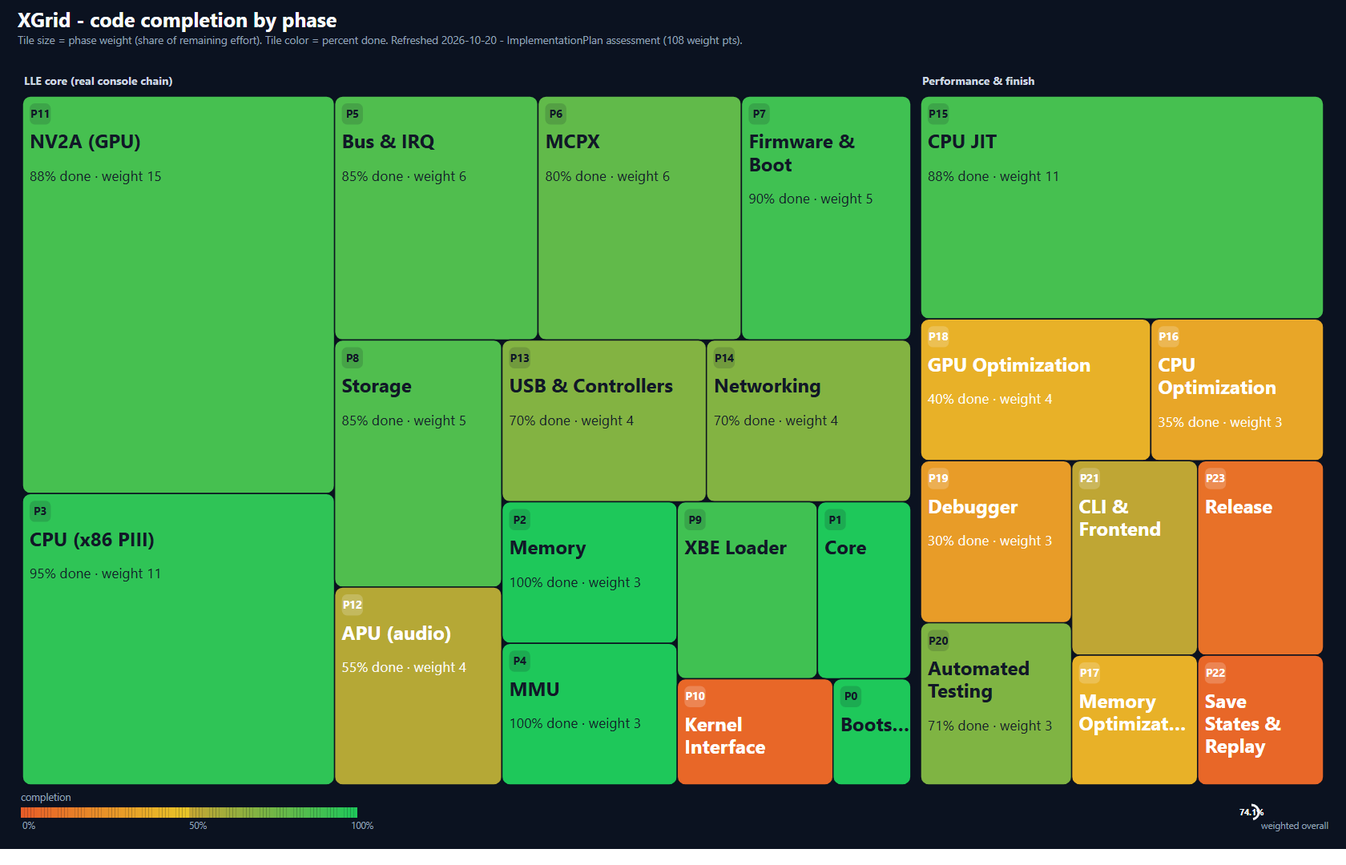
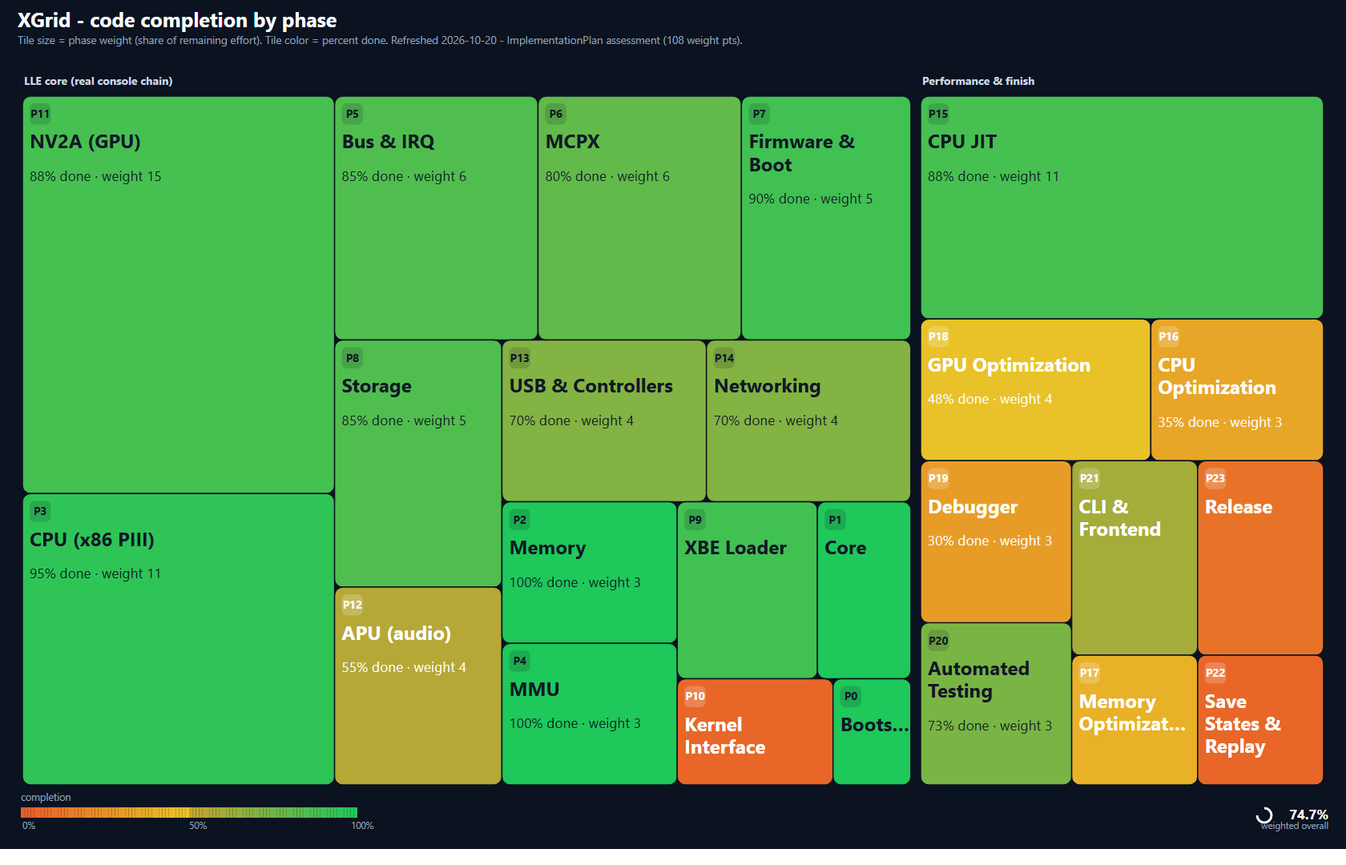
docs: fold 205 into the plan, matrix and completion graph  Documentation pass after the draw-command batching landing (8920c22, 48a12e1). No code changes.  ImplementationPlan: - assessment header/summary rows name 205; - Track B item 1 records the batching design and the same-binary A/B   (drawMs 19

Changed region(s): [[0.7738, 0.5194, 0.8976, 0.7639], [0.9286, 0.9167, 0.9905, 0.9472]]

diff --git a/tools/completion-graph/completion-treemap.html b/tools/completion-graph/completion-treemap.html
@@ -125,12 +125,12 @@
 <text x='1158' y='185.4' font-size='24' font-weight='700' fill='#111827'>CPU JIT</text>
 <text x='1158' y='226.1' font-size='17.3' opacity='0.94' fill='#111827'>88% done &#183; weight 11</text>
 </g>
-<g class='tile' data-p='18' data-name='GPU Optimization' data-done='40' data-weight='4'>
-<rect x='1149' y='398.2' width='287.4' height='177.1' rx='10' fill='#E8B128' stroke='#0B1220' stroke-width='1.5'/>
+<g class='tile' data-p='18' data-name='GPU Optimization' data-done='48' data-weight='4'>
+<rect x='1149' y='398.2' width='287.4' height='177.1' rx='10' fill='#E8C228' stroke='#0B1220' stroke-width='1.5'/>
 <rect x='1158' y='407.2' width='26.4' height='26.4' rx='6.6' fill='rgba(255,255,255,0.20)'/>
 <text x='1171.2' y='425.2' font-size='13.7' font-weight='700' fill='#FFFFFF' text-anchor='middle'>P18</text>
 <text x='1158' y='463.6' font-size='24' font-weight='700' fill='#FFFFFF'>GPU Optimization</text>
-<text x='1158' y='504.3' font-size='17.3' opacity='0.94' fill='#FFFFFF'>40% done &#183; weight 4</text>
+<text x='1158' y='504.3' font-size='17.3' opacity='0.94' fill='#FFFFFF'>48% done &#183; weight 4</text>
 </g>
 <g class='tile' data-p='16' data-name='CPU Optimization' data-done='35' data-weight='3'>
 <rect x='1436.4' y='398.2' width='215.6' height='177.1' rx='10' fill='#E8A628' stroke='#0B1220' stroke-width='1.5'/>
@@ -147,23 +147,23 @@
 <text x='1158' y='640.7' font-size='24' font-weight='700' fill='#FFFFFF'>Debugger</text>
 <text x='1158' y='681.4' font-size='17.3' opacity='0.94' fill='#FFFFFF'>30% done &#183; weight 3</text>
 </g>
-<g class='tile' data-p='20' data-name='Automated Testing' data-done='71' data-weight='3'>
-<rect x='1149' y='777.6' width='188.6' height='202.4' rx='10' fill='#7FB443' stroke='#0B1220' stroke-width='1.5'/>
+<g class='tile' data-p='20' data-name='Automated Testing' data-done='73' data-weight='3'>
+<rect x='1149' y='777.6' width='188.6' height='202.4' rx='10' fill='#79B544' stroke='#0B1220' stroke-width='1.5'/>
 <rect x='1158' y='786.6' width='26.4' height='26.4' rx='6.6' fill='rgba(17,24,39,0.16)'/>
 <text x='1171.2' y='804.6' font-size='13.7' font-weight='700' fill='#111827' text-anchor='middle'>P20</text>
 <text x='1158' y='843' font-size='24' font-weight='700' fill='#111827'>Automated</text>
 <text x='1158' y='871.4' font-size='24' font-weight='700' fill='#111827'>Testing</text>
-<text x='1158' y='912.1' font-size='17.3' opacity='0.94' fill='#111827'>71% done &#183; weight 3</text>
+<text x='1158' y='912.1' font-size='17.3' opacity='0.94' fill='#111827'>73% done &#183; weight 3</text>
 </g>
-<g class='tile' data-p='21' data-name='CLI &amp; Frontend' data-done='52' data-weight='3'>
-<rect x='1337.6' y='575.3' width='157.2' height='242.8' rx='10' fill='#BFA634' stroke='#0B1220' stroke-width='1.5'/>
+<g class='tile' data-p='21' data-name='CLI &amp; Frontend' data-done='60' data-weight='3'>
+<rect x='1337.6' y='575.3' width='157.2' height='242.8' rx='10' fill='#A4AC3A' stroke='#0B1220' stroke-width='1.5'/>
 <rect x='1346.6' y='584.3' width='26.4' height='26.4' rx='6.6' fill='rgba(255,255,255,0.20)'/>
 <text x='1359.8' y='602.2' font-size='13.7' font-weight='700' fill='#FFFFFF' text-anchor='middle'>P21</text>
 <text x='1346.6' y='640.7' font-size='24' font-weight='700' fill='#FFFFFF'>CLI &amp;</text>
 <text x='1346.6' y='669' font-size='24' font-weight='700' fill='#FFFFFF'>Frontend</text>
 </g>
-<g class='tile' data-p='23' data-name='Release' data-done='10' data-weight='3'>
-<rect x='1494.8' y='575.3' width='157.2' height='242.8' rx='10' fill='#E87128' stroke='#0B1220' stroke-width='1.5'/>
+<g class='tile' data-p='23' data-name='Release' data-done='11' data-weight='3'>
+<rect x='1494.8' y='575.3' width='157.2' height='242.8' rx='10' fill='#E87328' stroke='#0B1220' stroke-width='1.5'/>
 <rect x='1503.8' y='584.3' width='26.4' height='26.4' rx='6.6' fill='rgba(255,255,255,0.20)'/>
 <text x='1517' y='602.2' font-size='13.7' font-weight='700' fill='#FFFFFF' text-anchor='middle'>P23</text>
 <text x='1503.8' y='640.7' font-size='24' font-weight='700' fill='#FFFFFF'>Release</text>
@@ -287,8 +287,8 @@
 <text x='28' y='1035' font-size='11.5' fill='#94A3B8'>0%</text>
 <text x='236' y='1035' font-size='11.5' fill='#94A3B8'>50%</text>
 <text x='438' y='1035' font-size='11.5' fill='#94A3B8'>100%</text>
-<circle cx='1562' cy='1014' r='9' fill='none' stroke='#F8FAFC' stroke-width='3' stroke-dasharray='26 34.5' transform='rotate(-90 1562 1014)'/>
-<text x='1562' y='1018' font-size='10.5' font-weight='700' fill='#F8FAFC' text-anchor='middle'>74.1%</text>
+<circle cx='1578' cy='1018' r='9' fill='none' stroke='#F8FAFC' stroke-width='3' stroke-dasharray='42.2 14.3' transform='rotate(-90 1578 1018)'/>
+<text x='1658' y='1023' font-size='17' font-weight='700' fill='#F8FAFC' text-anchor='end'>74.7%</text>
 <text x='1658' y='1035' font-size='11.5' fill='#94A3B8' text-anchor='end'>weighted overall</text>
 </svg>
 

diff --git a/ImplementationPlan.md b/ImplementationPlan.md
@@ -132,9 +132,19 @@ Canonical priority order: `docs/development-direction.md` (summarized in
    `4f0bd47`: menu `gl+replace` **63.09 → 45.25 s (-20.5%, 3/3; `drawMs` 12.55 →
    2.41 s, readback → 0)**, triangle 10.26 → 9.89 s (-0.9%, 3/3); quiet-host
    projection menu ~24.7 s (boundary), triangle ~6.4 s (CPU-bound). 1B GL goldens
-   pass (menu `6BE6325F…`, triangle `3FC4B419…`, sw anchors unchanged). Next if
-   the targets must be closed: per-triangle batching (instanced + TBO). Then B3
-   method coverage on the corpus (zero `unsup` rows, guest counters identical).
+   pass (menu `6BE6325F…`, triangle `3FC4B419…`, sw anchors unchanged).
+   **Landed 2026-10-20 (§205): draw-command batching** — a PGRAPH primitive flush
+   averages 82 triangles, so the backend stages the whole flush and submits it as
+   one `glDrawArraysInstanced` (per-triangle block = a uniform-array slot selected
+   by `gl_InstanceID` via a flat varying; capacity 64 from the queried uniform
+   budget; `XGRID_GL_NO_BATCH=1` forces the old path; boundary =
+   `BeginDrawBatch`/`EndDrawBatch` around `Nv2aMmio.FlushDraw`). Same-binary A/B:
+   `drawMs` **1971 → 1045 ms (-47%, 3/3)**, 59,437 instanced draws replace 2.76M
+   single draws, wall **42.20 → 40.43 s (-4.2%, 3/3)**, both 1B GL frames
+   byte-identical. Remaining menu submission is ~0.8 s of block packing (not GL
+   calls) and the ~0.5-0.9 s texture fingerprint, both measured and deferred.
+   Next: B3 method coverage on the corpus (zero `unsup` rows, guest counters
+   identical) — the submission levers are spent.
 2. **Track E — compatibility corpus.** `docs/compatibility.md` + a
    boot-to-first-frame harness + ≥8 samples; no NV2A/APU fidelity polish without
    a matrix row and a usage histogram (`compatibility-corpus.md`). **Landed
@@ -3219,12 +3229,12 @@ filtering, TEXADDRESS V bit, BRDF detail, Vulkan/OpenGL backends
 | 12 — APU | **Partial** | `XGrid.Audio/McpxApuDevice`: 512 KB window at 0xFE800000, xemu `apu.c`/`vp.c`-faithful register model (ISTS/IEN + `update_irq` gating, FECTL traps, FEDECMETH/FEDECPARAM FE messages, FEMEMADDR/FEMEMDATA magic write, VP PIO_FREE=0x80, VOICE_ON/OFF, voice-list regs), notifier/voice-state writes to guest RAM, frame-quantized `SE2FE_IDLE_VOICE` delivery (`Advance`, 256 samples @ 48 kHz), PCI IRQ wired to PIC; VP voice processor DONE (§107: PIO methods, guest-RAM voice state, SSL advance, notifiers + idle voice; 007's PlayMPC streams complete through the real advance callback — the `0x20FC1` drain gate PASSED). Remaining: DSP cores (register-only; not yet needed), mixing/resampling, host output |
 | 13 — USB & Controllers | **Partial** | OHCI schedule engine (control/bulk/periodic, done-queue/WDH, §54), xemu-faithful USB hub chain (4-port daughterboard hub -> 3-port controller hub -> XID, §69), `XidGamepad` with latched + step-timed `--pad` injection; **the guest's XPP stack now opens the pad and polls `GetState` every frame; D-pad navigates the menu, A-edge activation fires `0x1859D` (§§69–70)**; scripted `--pad-script` sequences (§74). Remaining: memory units/USB storage class, more device types |
 | 14 — Networking | Partial (MMIO + engine) | nvnet MMIO + per-reg histograms (§52–53, §62) + P0/P1 packet engine (§84: ring latches, IRQ4, TX walker + loopback backend, CLI counters) + P2/P3 (§88: RX filter/DMA + RX/RX_NOBUF IRQs, link toggle + 250 ms autoneg + MIIEVENT, socket user-mode backend behind `--net-backend` with loopback default, `--net-inject`/`--net-link`, 30 new tests); guest init-only steady state preserved, 986 tests |
-| 15–23 | Partial | JIT slices landed (profiler §128, fetch-fast §131, decode cache default-on §§134/137, block executor §136, semspec slices §§139–170, memory-path slices §§161–165, E1–E3 emission trial wall-neutral §§171–179b); **fast-mode JIT track §§190–199o** (`--jit` DynamicMethod engine 99% served, ktest 3.76×; C2/C3 raw emitter `--jit-raw` bit-exact on both titles at 1B, direct chaining, C3-x hot shapes — 8.8/31.6 ns per served member; C3-y/xlat/flip probes closed neutral); **rasterizer campaign §§180–187 and Track B §§199p/§200** (raster menu 24.0→13.3-15.1 s, triangle 6.19→3.31-3.45 s, no longer the dominant wall; all SHAs exact); V1 snapshot framework (§§99–101); GL backend slices 1–3 (§§113,117,122); `--window` present (§184). Codegen IR, DSP mixing/host output, debugger GUI, save-state v2, frontend, release packaging pending |
+| 15–23 | Partial | JIT slices landed (profiler §128, fetch-fast §131, decode cache default-on §§134/137, block executor §136, semspec slices §§139–170, memory-path slices §§161–165, E1–E3 emission trial wall-neutral §§171–179b); **fast-mode JIT track §§190–199o** (`--jit` DynamicMethod engine 99% served, ktest 3.76×; C2/C3 raw emitter `--jit-raw` bit-exact on both titles at 1B, direct chaining, C3-x hot shapes — 8.8/31.6 ns per served member; C3-y/xlat/flip probes closed neutral); **rasterizer campaign §§180–187 and Track B §§199p/§200** (raster menu 24.0→13.3-15.1 s, triangle 6.19→3.31-3.45 s, no longer the dominant wall; all SHAs exact); V1 snapshot framework (§§99–101); GL backend slices 1–3 (§§113,117,122); `--window` present (§184); **Track B §204 present path + §205 draw-command batching** (GL submission 6.87 → 1.05 s, per-flip readback opt-in, 59,437 instanced draws replace 2.76M single draws, both 1B GL frames byte-identical). Codegen IR, DSP mixing/host output, debugger GUI, save-state v2, frontend, release packaging pending |
 
-Current test baseline: **1519 tests passing** (2026-10-20, `dotnet test XGrid.sln -c Release`; the previous per-project split predates the fast-mode JIT campaign and is not restated here);
+Current test baseline: **1538 tests passing** (2026-10-20, `dotnet test XGrid.sln -c Release`; the previous per-project split predates the fast-mode JIT campaign and is not restated here);
 `dotnet build -c Release` clean; `dotnet format --verify-no-changes` clean (verified 2026-10-16).
 
-## Project completion assessment (2026-10-19; refreshed 2026-10-20 for the fast-mode JIT track §§190–199f, the C3 raw-emitter correctness campaigns §§199g–§199i, the §199k state hoist, the §199l/§199m chaining re-land and §199o C3-x, the Track B rasterizer slices §199p/§200, the GL window §184 and the idle-skip measurement §185)
+## Project completion assessment (2026-10-19; refreshed 2026-10-20 for the fast-mode JIT track §§190–199f, the C3 raw-emitter correctness campaigns §§199g–§199i, the §199k state hoist, the §199l/§199m chaining re-land and §199o C3-x, the Track B rasterizer slices §199p/§200, the GL window §184, the idle-skip measurement §185, the §204 Track B present-path removal + Track E corpus harness and the §205 draw-command batching)
 
 Weighted estimate over the 24 plan phases (0–23). Phase fractions reflect
 implemented-vs-planned surface (behavior, tests, reference parity), and the
@@ -3251,14 +3261,14 @@ dominate). This is an estimate, not a metric — treat it as ±5 points.
 | 15 CPU JIT | 11 | 88% | semspec slices 1–20+memory-path 1–4+dispatch 5–6+shape 7 opt-in `--spec-exec`; decode/TLB caches + block executor (§§131,134,136); codegen E1–E3 opt-in (§§171–179b); **fast-mode track §§190–194: `--jit` whole-block DynamicMethod engine (dual-mode contract), lost-wakeup fix, coverage campaign (99% served), menu 1B bit-exact, ktest 2B 3.76× CPU-bound, quiet-host fast medians triangle 10.63 s / menu 45.62 s after C2+D3b (§199d)**; **C3 raw emitter §§199e–§199i: `--jit-raw` opt-in, per-block native x86-64 (fixed host registers, flags in host FLAGS, inline translate-cache probe, spec-handler trampoline); 17 latent bugs fixed across three correctness campaigns; 59/59 JitTests with the raw path forced on; BOTH title 1B IL-vs-raw differentials bit-exact (menu `660CA11B…/F5D61C94…`, triangle `A2DCA55F…/7DAB63EB…`, every counter identical); ahead of IL on CPU serving time after the §199k state hoist; §199l direct chaining LANDED after the §199m fault-contract fix (helpers catch/record/report instead of unwinding through the hand-emitted frame): 1B medians of 3 interleaved pairs triangle wall -12.0% / `outerMs` -28.6%, menu wall -13.1% / `outerMs` -14.2%, SHAs and every counter identical to IL; 625/625 CPU tests x10, ktest XGrid leg byte-identical at 792,800,535 steps**; **§199o C3-x hot-shape native encoding LANDED (helper-routed members 24.65M -> 1.81M triangle, 122.65M -> 5.57M menu; 1B wall -10.8% triangle / -7.2% menu on sw, -14.1% / -8.0% on gl+replace; 8.8 ns/served member triangle / 31.6 ns menu — the §199n target hit); C3-y bookkeeping trim and the 1024-slot data xlat cache measured NEUTRAL and reverted, the flip-pacing probe closed as no-bug**; **C3 frozen 2026-10-20 (course correction): only the operator's `--jit`/`--jit-raw` default-flip decision remains**; threshold auto-tune and E3-2 are deferred |
 | 16 CPU Optimization | 3 | 35% | benchmark-driven tuning; `boot --bench` + `jit-bench.ps1` medians + `--jit-tally`/`--gpu-time` diagnostics and quiet-host accounting in place (§§191–194); profile-driven next |
 | 17 Memory Optimization | 2 | 40% | RAM-direct/wide-access (§161), Bytes bulk (§162), xlat cache (§163), rep-string span (§165); remaining RMW paths |
-| 18 GPU Optimization | 4 | 40% | rasterizer bit-exact specialization (§§180–187: fast combiner configs, planned evaluator, sampler plans, blend specialization, lean interpolation; menu 119→24.6 s, triangle 54.7→9.9 s); neutral experiments reverted (§183/§186); GL backend pairing measured parity-to-worse at 1B (§194 am.3 — sw stays default); measured at 48% (menu) / 39% (triangle) of the 1B sw wall after C3 (§199n), then **§199p: O2 `IGpuMemoryFast` GPU-memory fast lane landed (-2.0% both titles, 3/3), then O4 branchless Morton spread (-5.9% triangle 3/3, -1.2% menu 2/3); §200: O3b per-fill fast sampler + O1 compiled k1 modulate (245.8M px) and k2/k3 lighting fills, 1B rasterPsh menu 24.0 → 13.3-15.1 s (-44%), triangle 6.19 → 3.31-3.45 s (-45%), interleaved wall -21.9% / -23.5%, quiet host 36.01 s / 9.13 s; accurate-mode raster triangle 6.90 → 3.63 s (-47%) with RAM/CPU SHAs and every counter exact; O5 counter batching and the cube-stride hoist measured neutral; the rasterizer is no longer the dominant wall**; remaining (2026-10-20 course correction): **Track B leads with the `gl+replace` present path — remove the per-flip readback (~9.9 s / 686 menu frames) before any further fill-loop work; row spans (O6) demoted** |
+| 18 GPU Optimization | 4 | 48% | rasterizer bit-exact specialization (§§180–187: fast combiner configs, planned evaluator, sampler plans, blend specialization, lean interpolation; menu 119→24.6 s, triangle 54.7→9.9 s); neutral experiments reverted (§183/§186); GL backend pairing measured parity-to-worse at 1B (§194 am.3 — sw stays default); measured at 48% (menu) / 39% (triangle) of the 1B sw wall after C3 (§199n), then **§199p: O2 `IGpuMemoryFast` GPU-memory fast lane landed (-2.0% both titles, 3/3), then O4 branchless Morton spread (-5.9% triangle 3/3, -1.2% menu 2/3); §200: O3b per-fill fast sampler + O1 compiled k1 modulate (245.8M px) and k2/k3 lighting fills, 1B rasterPsh menu 24.0 → 13.3-15.1 s (-44%), triangle 6.19 → 3.31-3.45 s (-45%), interleaved wall -21.9% / -23.5%, quiet host 36.01 s / 9.13 s; accurate-mode raster triangle 6.90 → 3.63 s (-47%) with RAM/CPU SHAs and every counter exact; O5 counter batching and the cube-stride hoist measured neutral; the rasterizer is no longer the dominant wall**; **§204 present path measured and fixed: the per-flip readback is opt-in (`--frame`/`--frame-first`; 0 in normal runs), each draw is one packed `uTri[25]` uniform + one `glDrawArrays` (positions by `gl_VertexID`, no VBO upload), and the per-draw key strings/divisions/binds plus the per-method seam call are gone — `drawMs` 12.55 → 2.41 s (-81%), menu `gl+replace` 63.09 → 45.25 s (-20.5% same-window, 3/3), triangle 10.26 → 9.89 s; 1B GL goldens exact (`6BE6325F…` / `3FC4B419…`)**; **§205 draw-command batching landed: a PGRAPH primitive flush averages 82 triangles, so the backend stages a whole command and submits it with one `glDrawArraysInstanced` (per-triangle block = a uniform-array slot selected by `gl_InstanceID` through a flat varying, capacity 64 from the queried uniform budget, `XGRID_GL_NO_BATCH=1` forces the old path) — `drawMs` 1971 → 1045 ms (-47%, 3/3 same-binary), 59,437 instanced draws replace 2.76M single draws, menu `gl+replace` wall 42.20 → 40.43 s (-4.2%, 3/3), both 1B GL frame goldens byte-identical; the remaining menu submission is ~0.8 s of block packing (not GL calls) and the ~0.5-0.9 s texture fingerprint, both deferred with measured ceilings**; remaining: row spans (O6) demoted, Vulkan/GL backend work stays in P11 |
 | 19 Debugger | 3 | 30% | save states, symbols, GUI |
-| 20 Automated Testing | 3 | 71% | 1519 tests + goldens/median harnesses + randomized emit-inline differential net + 44 JIT differentials (fuzz/IRQ sweeps/faults/paging) + raw-emitter differentials (`RawJitTests` + the §199h delivered-EFLAGS parity, page-table-store-under-watch, exact watch-range-hit and split-member block-exit tests, plus 11 §199o C3-x shape differentials; 59/59 with the raw path forced on) + §199p fast-vs-legacy GPU-memory-lane differential + 8 §200 fast-vs-generic sampler/compiled-fill differentials + ktest smoke; fuzzing; **wider compatibility corpus is Track E (`docs/compatibility.md` + boot-to-first-frame harness)** |
-| 21 CLI & Frontend | 3 | 60% | opt-in `--window` live present sink (§184); **Avalonia frontend landed `ea8b38f` (sw-only, keyboard-only, silent, stateless)**; Track P adds host audio, physical pad, save states, per-title config |
+| 20 Automated Testing | 3 | 73% | 1538 tests + goldens/median harnesses + randomized emit-inline differential net + 44 JIT differentials (fuzz/IRQ sweeps/faults/paging) + raw-emitter differentials (`RawJitTests` + the §199h delivered-EFLAGS parity, page-table-store-under-watch, exact watch-range-hit and split-member block-exit tests, plus 11 §199o C3-x shape differentials; 59/59 with the raw path forced on) + §199p fast-vs-legacy GPU-memory-lane differential + 8 §200 fast-vs-generic sampler/compiled-fill differentials + the §204 readback-policy live tests + 4 §205 batch-bracket seam tests (fail-pre-fix proven) + ktest smoke; the present-path acceptance script (`scripts/present-path-acceptance.ps1`), the batching A/B (`scripts/batch-205-ab.ps1`) and the boot-to-first-frame harness (`scripts/boot-to-first-frame.ps1`, six measured corpus rows (three samples, both backends)) automate the ceremony; fuzzing; **wider compatibility corpus is Track E (`docs/compatibility.md` + the harness; 6 measured rows across 3 samples, of the ≥8 M-B target, the additional rows still blocked on the nxdk toolchain)** |
+| 21 CLI & Frontend | 3 | 60% | opt-in `--window` live present sink (§184); **Avalonia frontend landed `ea8b38f` (sw-only, keyboard-only, silent, stateless)**; §204 CLI observability: `--frame-first` (first presented frame + step anchor), `readback=on|off` and `methods=` in the boot summary; Track P adds host audio, physical pad, save states, per-title config |
 | 22 Save States & Replay | 2 | 5% | snapshot/replay — **Track P V1 next** (`.xgs` is versioned: CPU/RAM/device v2→v3 for NV2A and audio) |
-| 23 Release | 3 | 10% | packaging, installer; **compatibility list = Track E (`docs/compatibility.md`)** |
+| 23 Release | 3 | 11% | packaging, installer; **compatibility list exists — `docs/compatibility.md` with six measured rows across three samples (both backends), reproducible commands and the `scripts/boot-to-first-frame.ps1` harness (Track E; M-B wants ≥8 rows, ≥2 beyond dashboard/triangle/ktest)** |
 
-**Result: ~74% complete overall** (weighted: 80.26 of 108 weight-points, recomputed 2026-10-20 after §199o C3-x, the Track B slices §199p/§200, and the Avalonia frontend `ea8b38f` moving phase 21 from 52% to 60%; was 80.02 before the frontend. The 2026-10-20 course correction changes the *order* — Track B/E/P before further Track C work — not the score).
+**Result: ~75% complete overall** (weighted: 80.67 of 108 weight-points = 74.7%, recomputed 2026-10-20 after the §204 Track B present path (phase 18 40→45), the §205 draw-command batching (phase 18 45→48, phase 20 72→73), the Track E corpus harness (phase 20 71→72), the Avalonia frontend `ea8b38f` (phase 21 52→60) and the compatibility matrix (phase 23 10→11); was 80.02 before the frontend. The 2026-10-20 course correction changed the *order* — Track B/E/P before further Track C work; the score only moves with landed work).
 
 Visual treemap of the table above: `tools/completion-graph/` (SVG + interactive HTML; regenerate with `pwsh -File tools/completion-graph/generate.ps1`).
 By track:
@@ -3268,7 +3278,7 @@ By track:
   content, saves files, and navigates with a real controller through the
   daughterboard hub topology (§§68–70, §95); the 007 title runs to its
   audio-drain gate (§98, APU VP/DSP next).
-- **Performance/finish track (phases 15-23): ~53%.** Dominated by the CPU
+- **Performance/finish track (phases 15-23): ~55%.** Dominated by the CPU
   JIT (88% — interpreter with default-on decode cache, opt-in spec/block/
   emit layers, and the chartered fast-mode engine: `--jit` whole-block
   DynamicMethod runners at 99% served, bit-exact on both titles at 1B, ktest
@@ -3278,11 +3288,15 @@ By track:
   at 1B), and §199o C3-x hot-shape native encoding cut helper-routed members
   to 1.81M / 5.57M and per-member cost to 8.8 ns triangle / 31.6 ns menu —
   the §199n target hit; C3-y and the xlat cache measured neutral and were
-  reverted) and by GPU optimization (40% — the software rasterizer is 44-45%
+  reverted) and by GPU optimization (48% — the software rasterizer is 44-45%
   cheaper after §199p O2/O4 and the §200 compiled fills: menu 24.0 →
   13.3-15.1 s, triangle 6.19 → 3.31-3.45 s, no longer the dominant wall,
-  with accurate-mode SHAs and every counter exact). Track B now leads the
-  remaining gap with the `gl+replace` present path (readback removal) first;
+  with accurate-mode SHAs and every counter exact; §204 then measured and
+  removed the `gl+replace` present-path overhead: readback is opt-in, one
+  packed uniform + one `glDrawArrays` per triangle, `drawMs` 12.55 → 2.41 s
+  (-81%), menu `gl+replace` 63.09 → 45.25 s same-window (-20.5%, 3/3); §205 then batched a whole draw command (82 triangles average) into one instanced draw: `drawMs` 1971 → 1045 ms (-47%, 3/3), 59,437 instanced draws replace 2.76M single draws, wall -4.2% (3/3), both 1B GL frames byte-identical).
+  Both scoped Track B slices are in; what remains is ~0.8 s of block packing
+  and the ~0.5-0.9 s texture fingerprint (measured, deferred);
   row spans (O6) are demoted and the C3-z inline page pair is deferred
   (2-3% estimate, below its keep bar).
 - **Product track (2026-10-20, Track P):** the Avalonia frontend landed

diff --git a/docs/compatibility.md b/docs/compatibility.md
@@ -1,6 +1,7 @@
 # XGrid compatibility matrix (Track E)
 
-Status: **first measured rows, 2026-10-20.** This is the steering document for
+Status: **first measured rows, 2026-10-20; refreshed after §205 (draw-command
+batching) with both backends per sample.** This is the steering document for
 fidelity work, not a gate document. A row is evidence from a recorded run; gates
 stay in `docs/development-direction.md` §6 and `docs/research-notes/next-session.md`.
 
@@ -61,26 +62,33 @@ accurate-mode gate SHAs. A row with `verdict=CHECK` (fault, no frame) is red.
 | **nxdk_vsh_tests** (VS goldens) | https://github.com/abaire/nxdk_vsh_tests | **blocked** - needs nxdk | - | vertex-shader oracle data | - | fetch + compare, not a boot row | - | - |
 | **OpenXDK framebuffer demos** | xbdev.net / OpenXDK | **blocked** - toolchain | - | raw framebuffer | - | candidate for non-D3D bring-up | - | - |
 
-## Measured rows (this session, loaded host)
+## Measured rows (2026-10-20, twelfth session, loaded host)
 
-Recorded with the harness at 1B steps; the host was ~1.6-1.9x slower than the
-quiet-host baselines, so compare rows within a session, not across.
+Recorded with `scripts/boot-to-first-frame.ps1 -All` at 1B steps (ktest at 600M);
+the host runs ~1.6-1.9x slower than the quiet-host baselines, so compare rows
+within a session, not across. These are the post-§205 rows (draw-command
+batching): the GL walls moved by ~1% here, while the same-binary A/B measured
+`drawMs` -47% and wall -4.2% on the §205 commit.
 
 | Row | wall | msps | frames | first frame | last frame | SHAs (ram/cpu) |
 |---|---:|---:|---:|---|---|---|
-| triangle, `sw` | 20.6 s | 48.6 | 68 | step 32M, `6F780A33` | `A1740DE0` | `777F4DEB` / `7DAB63EB` |
-| triangle, `gl+replace` | 10.6 s | 94.8 | 68 | step 32M, `6F780A33` | `3FC4B419` | `8AE82781` / `7DAB63EB` |
-| dashboard, `sw` | 62.7 s | 15.9 | 686 | step 50M, `6F780A33` | `4EF1FBF6` | `36B72FE1` / `F5D61C94` |
-| dashboard, `gl+replace` | 45.1 s | 22.2 | 686 | step 50M, `6F780A33` | `6BE6325F` | `CF151863` / `F5D61C94` |
-| ktest (600M, `disable-video=1`) | 15.5 s | 38.7 | 34 (boot animation only) | step 36M, `6F780A33` | `18C7CC83` | fast anchors only |
+| triangle, `sw` | 20.7 s | 48.3 | 68 | step 32M, `6F780A33` | `A1740DE0` | `777F4DEB` / `7DAB63EB` |
+| triangle, `gl+replace` | 10.5 s | 94.8 | 68 | step 32M, `6F780A33` | `3FC4B419` | `8AE82781` / `7DAB63EB` |
+| dashboard, `sw` | 62.0 s | 16.1 | 686 | step 50M, `6F780A33` | `4EF1FBF6` | `36B72FE1` / `F5D61C94` |
+| dashboard, `gl+replace` | 44.6 s | 22.4 | 686 | step 50M, `6F780A33` | `6BE6325F` | `CF151863` / `F5D61C94` |
+| ktest (600M, `disable-video=1`), `sw` | 14.9 s | 40.3 | 34 (boot animation only) | step 36M, `6F780A33` | `18C7CC83` | `4D4849FA` / `76002239` |
+| ktest (600M, `disable-video=1`), `gl+replace` | 10.0 s | 59.8 | 34 (boot animation only) | step 36M, `6F780A33` | `18C7CC83` | `42C9C960` / `76002239` |
 
 Reading: the first presented frame is the boot animation (`6F780A33`) in every
 row - a boot-chain anchor, not a title anchor. The title anchors are the
 last-frame SHAs, and the GL rows match their gate goldens
 (`3FC4B419`/`6BE6325F`), which is what makes these rows comparable to the gates.
-The ktest row is the smoke ISO staged by `scripts/ktest-smoke.ps1`; its suite
+The ktest rows are the smoke ISO staged by `scripts/ktest-smoke.ps1`; its suite
 log is the real evidence (`792,800,535` steps, 7/7 known deltas), the frames are
-just the boot animation because the suite config disables video.
+just the boot animation because the suite config disables video. The GL rows
+report `pixels=0` by design: `--gpu-replace` hands the fills to the backend, so
+the software raster counters are empty while the draw/flip counters stay
+identical to the `sw` row (`draws=33638` dashboard, `2706` triangle).
 
 ### Observation: the dashboard keeps presenting past 2B (no submenu reached)
 

diff --git a/docs/research-notes/xgrid-architecture-decisions.md b/docs/research-notes/xgrid-architecture-decisions.md
@@ -12069,6 +12069,18 @@ mode early-returns through the `finally`), and
 `FlushDraw` fails 3 of the 4 - the Clear/Flip test only asserts the negative
 invariant.
 
+**Track E rows refreshed (same session).** `scripts/boot-to-first-frame.ps1 -All`
+re-ran all six rows (three samples x both backends) on the batched build and
+`docs/compatibility.md` now carries the post-§205 walls and SHAs: triangle
+20.7 s sw / 10.5 s gl+replace, dashboard 62.0 / 44.6 s, ktest-600M 14.9 / 10.0 s,
+with the GL last-frame SHAs still the gate goldens (`A1740DE0`/`777F4DEB`,
+`4EF1FBF6`/`36B72FE1` on sw; `3FC4B419`/`8AE82781`,
+`6BE6325F`/`CF151863` on gl) and identical draw/flip counters. The GL walls
+moved only ~1% here because this host's run-to-run spread is larger than the
+parked -4.2%; the durable number stays the same-binary A/B above. Row count is
+6 measured rows but still **3 samples**, so M-B's ">=8 rows / >=2 beyond the
+three" exit criterion is unchanged and still blocked on the nxdk toolchain.
+
 **Diagnostics added.** `XGRID_GL_NO_BATCH=1` (force the single-triangle path),
 `diag[... batchCalls= batchTris= batchCap=]`, `timed[flushMs=]`, probe `vtxMs`
 now measures the pack (the state fields measure per batch head).

diff --git a/docs/research-notes/rasterizer-inventory.md b/docs/research-notes/rasterizer-inventory.md
@@ -1,5 +1,15 @@
 # Software rasterizer per-pixel inventory - XGrid NV2A (`--gpu sw`, the default)
 
+> **Status 2026-10-20 (§205) - the present path is closed; the fill loop is again
+> the raster lever.** §204 removed the `gl+replace` present-path overhead
+> (`drawMs` 12.55 -> 2.41 s) and §205 batched a whole draw command into one
+> instanced draw (`drawMs` 1971 -> 1045 ms, -47%), so Track B has no scoped slice
+> left: the remaining menu submission is ~0.8 s of per-triangle block packing and
+> the ~0.5-0.9 s texture fingerprint. What is left of the software rasterizer is
+> the per-pixel work this inventory prices (O6 row spans and the 2-pixel
+> interleave stay demoted at their bounded ceilings; nothing here is scheduled
+> while Track E/P are open).
+
 > **Status 2026-10-20 (course correction, §203) - the next raster lever is the
 > present path, not the fill loop.** The product frontend renders on `--gpu sw`;
 > `--gpu gl --gpu-replace` replaces this raster but pays ~9.9 s / 686 frames in

diff --git a/docs/research-notes/next-session.md b/docs/research-notes/next-session.md
@@ -5,7 +5,7 @@ measured position), `AGENTS.md` (session notes + current state),
 `docs/research-notes/xgrid-architecture-decisions.md` §205 (draw-command
 batching: measurement, design, evidence, gates) + §204 (present-path split,
 readback removal) + §203 (course correction), `docs/compatibility.md` (matrix +
-harness), `docs/research-notes/nv097-coverage.md` (method-presence gap),
+harness, six measured rows across three samples), `docs/research-notes/nv097-coverage.md` (method-presence gap),
 `docs/research-notes/gpu-reference-map.md` (where to look for GPU facts),
 `docs/research-notes/jit-track-charter.md` (status),
 `docs/research-notes/rasterizer-inventory.md`, then this file.

diff --git a/docs/development-direction.md b/docs/development-direction.md
@@ -108,7 +108,7 @@ against xemu where an oracle exists (triangle ≈830 Msteps/s; ktest smoke xemu
 | triangle `--gpu sw` | 8.69 s | 2.8 s | 830 Msteps/s (1.13× real time) | ~7× |
 | triangle `gl+replace` | 6.49 s → **~6.4 s** | — | same | ~5.6× |
 | menu `--gpu sw` | 33.3 s → **~30 s** | 12.0 s | no oracle (xemu deadlocks) | ~25× real time |
-| menu `gl+replace` | 31.1 s → **~24.7 s** | — | same | ~21× real time |
+| menu `gl+replace` | 31.1 s → **~23.7 s** | - | same | ~17.4× real time |
 
 **Track B slice 1 (§204) landed:** the GL path's overhead fell from ~7.9 s to
 ~1.3 s (readback removed from fast-mode present, per-draw submission 2.49 →

diff --git a/AGENTS.md b/AGENTS.md
@@ -703,7 +703,8 @@ byte-identical on every gate.
   untouched.
 - **Track E:** `scripts/boot-to-first-frame.ps1` (new harness; prints one `BTFF`
   line + JSON per row), `docs/compatibility.md` rewritten with reproducible
-  commands and four measured rows, the new `--frame-first <bmp>` CLI facility
+  commands and four measured rows (six after the §205 refresh: every sample on
+  both backends), the new `--frame-first <bmp>` CLI facility
   (first presented frame + step anchor). The nxdk-toolchain blocker is recorded
   precisely (MSYS2 base has no clang/make; C: 247 MB free → install on D:).
   Two reference notes from a parallel session are indexed:
